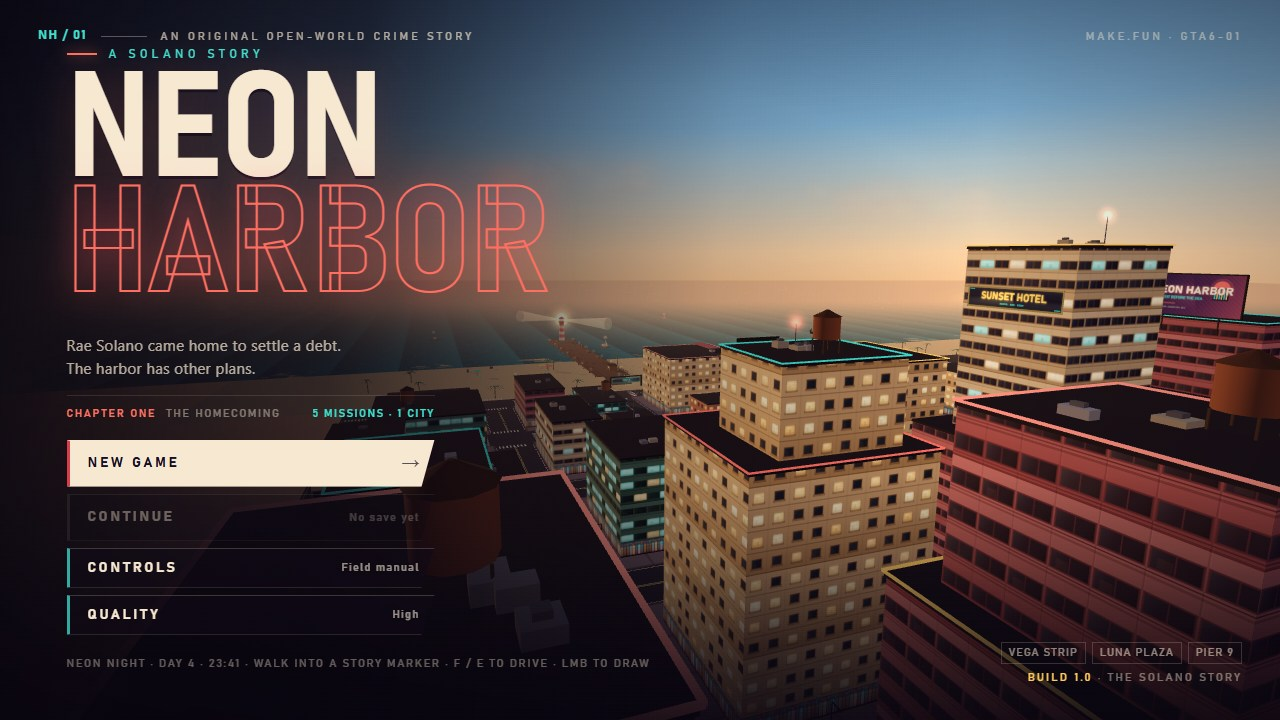
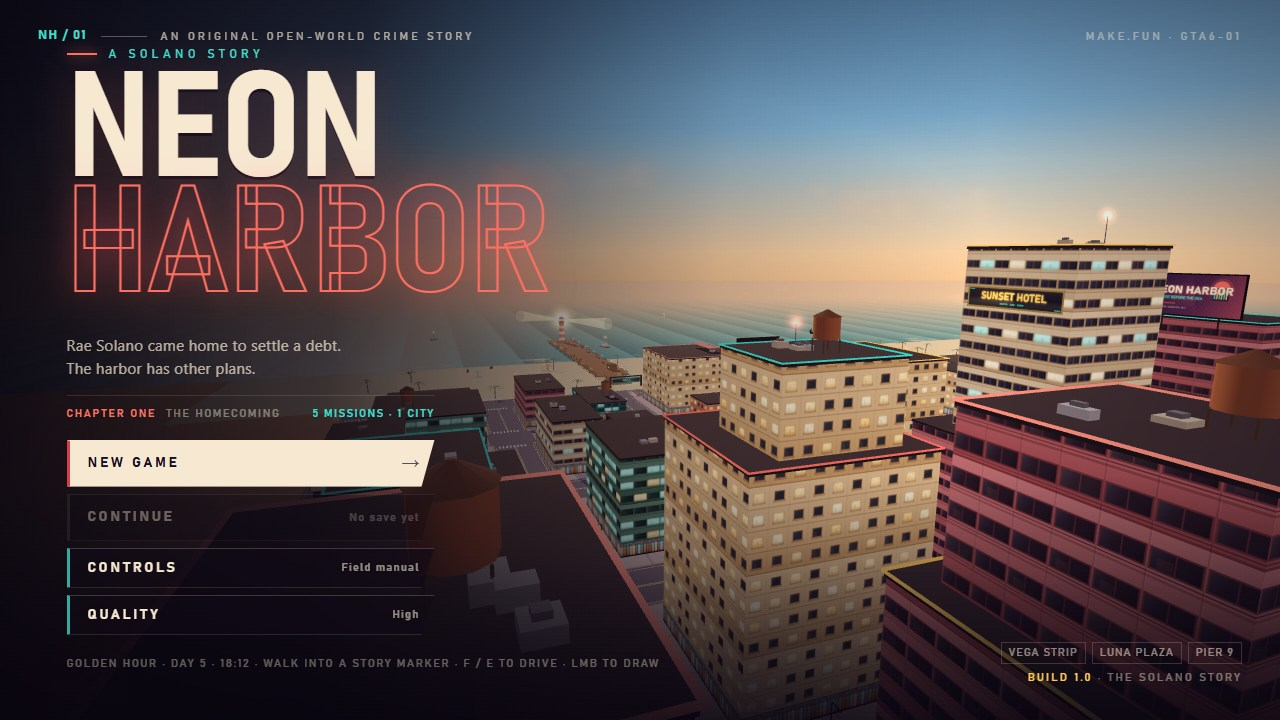
Give Neon Harbor a sun-soaked late afternoon
Raise and warm the sun, lift the hemisphere, ambient and fill lights,
and lighten the asphalt, pavement, sand and water so the streets read as
late-afternoon daylight instead of night. Soften the shadow contrast with
the stronger fill and recapture all four 1280x720 screenshots, keeping the
driving chase as the cover and the blockade, Pier 9 mission and title vista
in their slots.

Set the clock to DAY 5 · 18:12 and GOLDEN HOUR in the HUD, title screen and
README.

Changed region(s): [[0.1875, 0.3361, 1.0, 0.825], [0.0625, 0.9167, 0.5, 0.9472], [0.4688, 0.7639, 0.5312, 0.8861]]

diff --git a/game/src/world.js b/game/src/world.js
@@ -320,10 +320,10 @@ export class World {
     this.scene.add(this.sun);
     this.scene.add(this.sun.target);
 
-    // A warm bounce from the opposite side lifts the shaded faces without
-    // flattening the scene the way pure ambient would.
+    // A warm, high bounce from the opposite side lifts the shaded faces
+    // without flattening the scene the way pure ambient would.
     this.fill = new THREE.DirectionalLight(light.fill.color, light.fill.intensity);
-    this.fill.position.set(130, 70, -110);
+    this.fill.position.set(140, 95, -120);
     this.scene.add(this.fill);
 
     this.focusAt(20, 30);
@@ -352,16 +352,16 @@ export class World {
 
   buildGround() {
     const asphalt = canvasTexture(128, 128, (ctx, width, height) => {
-      ctx.fillStyle = '#35303d';
+      ctx.fillStyle = '#514b5b';
       ctx.fillRect(0, 0, width, height);
       const rng = makeRng(0xa55f);
       for (let i = 0; i < 1100; i += 1) {
-        const shade = rng.range(24, 92);
+        const shade = rng.range(48, 126);
         ctx.fillStyle = `rgba(${shade + 8},${shade + 2},${shade + 12},${rng.range(0.08, 0.35)})`;
         ctx.fillRect(rng.range(0, width), rng.range(0, height), rng.range(0.5, 2), rng.range(0.5, 2));
       }
       for (let i = 0; i < 5; i += 1) {
-        ctx.strokeStyle = 'rgba(7,6,10,0.4)';
+        ctx.strokeStyle = 'rgba(22,18,28,0.35)';
         ctx.lineWidth = 0.7;
         ctx.beginPath();
         let x = rng.range(0, width);
@@ -386,15 +386,15 @@ export class World {
     this.root.add(ground);
 
     const pavement = canvasTexture(128, 128, (ctx, width, height) => {
-      ctx.fillStyle = '#716168';
+      ctx.fillStyle = '#8c7c83';
       ctx.fillRect(0, 0, width, height);
       const rng = makeRng(0x51de);
       for (let i = 0; i < 500; i += 1) {
-        const shade = rng.range(72, 135);
+        const shade = rng.range(98, 168);
         ctx.fillStyle = `rgba(${shade},${shade - 8},${shade + 2},${rng.range(0.06, 0.22)})`;
         ctx.fillRect(rng.range(0, width), rng.range(0, height), rng.range(0.5, 2), rng.range(0.5, 2));
       }
-      ctx.strokeStyle = 'rgba(45,36,42,0.5)';
+      ctx.strokeStyle = 'rgba(58,46,54,0.45)';
       ctx.lineWidth = 1;
       for (let i = 0; i <= width; i += 32) {
         ctx.beginPath();
@@ -508,11 +508,11 @@ export class World {
 
   buildBeach() {
     const sandTexture = canvasTexture(128, 128, (ctx, width, height) => {
-      ctx.fillStyle = '#c9a071';
+      ctx.fillStyle = '#d2a978';
       ctx.fillRect(0, 0, width, height);
       const rng = makeRng(0x5a4d);
       for (let i = 0; i < 1600; i += 1) {
-        const value = rng.range(150, 232);
+        const value = rng.range(170, 246);
         ctx.fillStyle = `rgba(${value},${value - 20},${value - 50},${rng.range(0.08, 0.36)})`;
         ctx.fillRect(rng.range(0, width), rng.range(0, height), rng.range(0.5, 1.6), rng.range(0.5, 1.6));
       }
@@ -569,9 +569,9 @@ export class World {
   buildOcean() {
     const waterTexture = canvasTexture(256, 256, (ctx, width, height) => {
       const gradient = ctx.createLinearGradient(0, 0, 0, height);
-      gradient.addColorStop(0, '#2f6e7b');
-      gradient.addColorStop(0.5, '#255966');
-      gradient.addColorStop(1, '#1c4554');
+      gradient.addColorStop(0, '#3a8490');
+      gradient.addColorStop(0.5, '#2f6f7c');
+      gradient.addColorStop(1, '#255866');
       ctx.fillStyle = gradient;
       ctx.fillRect(0, 0, width, height);
       const rng = makeRng(0x0cea);

diff --git a/game/src/config.js b/game/src/config.js
@@ -33,17 +33,18 @@ export const WORLD = {
   },
 };
 
-// The build is dressed for golden hour. A low sun in the west-southwest throws
-// long shadows across the Strip and the harbor; the sky runs from a pale peach
-// horizon to clear blue overhead, with a warm key light and a lifted ambient
-// fill. The neon signs, lit windows and streetlight pools stay exactly where
-// they were; they simply share the scene with a much brighter sky.
+// The build is dressed for a late-afternoon golden hour. The sun sits high in
+// the west and throws warm, soft-edged shadows across the Strip and the
+// harbor; the sky runs from a pale peach horizon to clear blue overhead, and
+// the key, fill and hemisphere lights keep facades, asphalt and sidewalks in
+// full daylight. The neon signs, lit windows and streetlight pools stay
+// exactly where they were; they simply share the scene with a brighter sky.
 export const TIME_OF_DAY = {
   preset: 'golden-hour',
-  sunDir: [-0.8, 0.18, 0.56],
-  exposure: 1.2,
-  clearColor: 0xf0bd92,
-  fog: { color: 0xefb98b, near: 115, far: 880 },
+  sunDir: [-0.82, 0.55, 0.14],
+  exposure: 1.3,
+  clearColor: 0xf3c69e,
+  fog: { color: 0xf2c7a0, near: 125, far: 960 },
   sky: {
     top: '#1c5fa8',
     upper: '#2f7cc2',
@@ -55,24 +56,24 @@ export const TIME_OF_DAY = {
     deep: '#8f6049',
   },
   sun: {
-    color: 0xffc47f,
-    intensity: 2.35,
-    haloColor: 0xffd39b,
-    haloOpacity: 0.3,
-    haloScale: 175,
-    washColor: 0xffb877,
-    washOpacity: 0.06,
-    washScale: 520,
-    coreColor: 0xfff4dc,
+    color: 0xffd09a,
+    intensity: 3.0,
+    haloColor: 0xffd7a8,
+    haloOpacity: 0.34,
+    haloScale: 230,
+    washColor: 0xffc08a,
+    washOpacity: 0.14,
+    washScale: 1000,
+    coreColor: 0xfff6e2,
     coreOpacity: 0.95,
-    coreScale: 32,
-    shadowRadius: 94,
-    shadowFar: 500,
+    coreScale: 34,
+    shadowRadius: 108,
+    shadowFar: 560,
   },
-  hemi: { sky: 0xa8cff0, ground: 0xa37b58, intensity: 1.42 },
-  ambient: { color: 0xffdcb8, intensity: 0.46 },
-  fill: { color: 0xffc79c, intensity: 0.62 },
-  cloud: { color: 0xfff1df, minOpacity: 0.16, maxOpacity: 0.3 },
+  hemi: { sky: 0xbadcff, ground: 0xb2875e, intensity: 2.0 },
+  ambient: { color: 0xffe2c2, intensity: 0.8 },
+  fill: { color: 0xffd0a4, intensity: 1.06 },
+  cloud: { color: 0xfff3e4, minOpacity: 0.2, maxOpacity: 0.36 },
 };
 
 export const PLAYER = {
@@ -206,11 +207,12 @@ export const PICKUPS = [
   { kind: 'pistol', x: 108, z: 36.4, label: 'Solano 9' },
 ];
 
-// The story opens late on the fourth night: the Strip is still awake, the
-// radio is on, and the Harbor PD air unit is already overhead.
-export const DAY = 4;
-export const HOURS = 23;
-export const MINUTES = 41;
+// The story opens late on the fifth afternoon: the sun is still high over the
+// water, the Strip is waking up, the radio is on, and the Harbor PD air unit
+// is already overhead.
+export const DAY = 5;
+export const HOURS = 18;
+export const MINUTES = 12;
 
 const STREET_NAMES_X = {
   189: 'EAST YARD',

diff --git a/game/src/hud.js b/game/src/hud.js
@@ -818,14 +818,14 @@ export class Hud {
     ctx.lineTo(x + width - 14, y + 103);
     ctx.stroke();
 
-    label(ctx, `DAY ${state.day ?? 4} · ${state.clock ?? '23:41'}`, x + 14, y + 123, {
+    label(ctx, `DAY ${state.day ?? 5} · ${state.clock ?? '18:12'}`, x + 14, y + 123, {
       size: 12.5,
       color: CREAM,
       spacing: '1.1px',
       weight: 800,
       font: MONO,
     });
-    label(ctx, 'NIGHT SHIFT', x + width - 14, y + 123, {
+    label(ctx, 'GOLDEN HOUR', x + width - 14, y + 123, {
       size: 10,
       color: 'rgba(63,224,207,0.72)',
       spacing: '1.4px',

diff --git a/game/index.html b/game/index.html
@@ -456,7 +456,7 @@
           <span>Quality</span><span class="btn-note" id="quality-note">High</span>
         </button>
       </nav>
-      <p class="title-hint">Neon night · Day 4 · 23:41 · Walk into a story marker · F / E to drive · LMB to draw</p>
+      <p class="title-hint">Golden hour · Day 5 · 18:12 · Walk into a story marker · F / E to drive · LMB to draw</p>
     </div>
     <div class="title-side">
       <div class="loc-chips"><span>Vega Strip</span><span>Luna Plaza</span><span>Pier 9</span></div>

diff --git a/README.md b/README.md
@@ -110,10 +110,12 @@ antennas, emissive storefronts and neon boards. Landmarks include the Sunset
 Hotel tower, Casa Luna on the beach, Motor Row, the Luna Plaza fountain, the
 radio mast, the Vega Strip arch, Pier 9 and its lighthouse.
 
-The build is dressed for golden hour. A low sun in the west-southwest throws
-long shadows across the blocks, the sky runs from pale peach at the horizon to
-clear blue overhead, and a warm key light with a lifted ambient fill carries
-the street while the emissive windows and neon still burn. Instanced pools
+The build is dressed for a late-afternoon golden hour. A raised, warm sun in
+the west throws soft shadows across the blocks, the sky runs from pale peach
+at the horizon to clear blue overhead, and a strong key light with lifted
+ambient, hemisphere and fill light keeps facades, asphalt and sidewalks in
+daylight while the emissive windows and neon still read against the brighter
+scene. Instanced pools
 under the streetlights and blade signs spill colour onto the pavement. The
 water plane scrolls its surface texture, the foam breathes, a points cloud
 supplies the sun glitter, the lighthouse beam turns, and warm cloud sprites
@@ -192,7 +194,7 @@ blips, mission enemies in coral and the objective marker, plus the crew panel
 (Mira Sol, Odin and Kiki with live role/status lines) and an NPC dialogue box
 with a drawn portrait, speaker name, role and line. The right rail carries the
 cash card, five wanted stars, `PURSUIT · 6 UNITS` or the search status, the
-`DAY 4 · 23:41` clock, the `STRIP RUNNER · 62/250 RESPECT` meter, the HPD
+`DAY 5 · 18:12` clock, the `STRIP RUNNER · 62/250 RESPECT` meter, the HPD
 response roster with named callsigns, roles and distances, the five-slot weapon
 strip (Solano 9, Kestrel SMG, street knife, and locked rifle and RPG slots), and
 the vehicle card with model, class, tune, a large speed readout, condition and
@@ -315,7 +317,7 @@ libraries, no generated bundles and no binary assets in `game/`.
 - `game/src/input.js` — keyboard, mouse, wheel, pointer lock and mouse edges.
 - `game/src/save.js` — guarded localStorage save, story/mission index, weapons,
   quality, volume and mute settings.
-- `game/src/random.js`, `config.js` — seeded RNG, the night clock, the
+- `game/src/random.js`, `config.js` — seeded RNG, the game clock, the
   golden-hour light preset, district and street names, tune labels and shared
   constants.
 - `game/src/shots.js` — the fixed `start`, `street`, `blockade`, `drive`,
